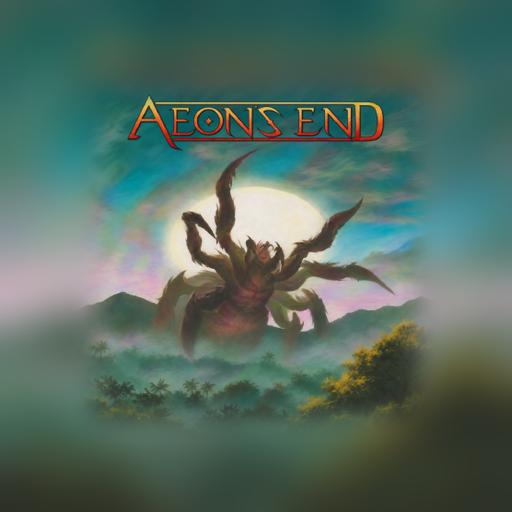
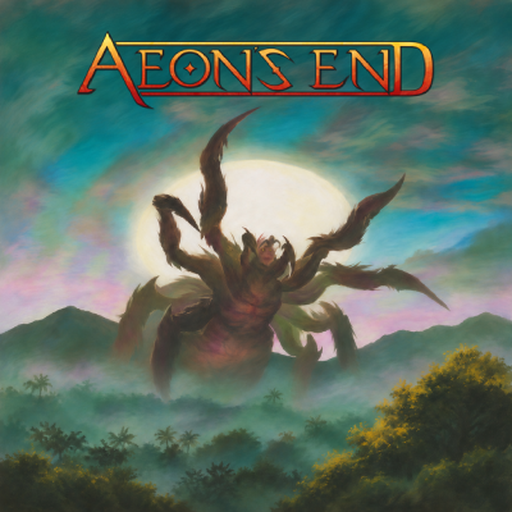
aassasadsad

diff --git a/tools/build-app-icons.py b/tools/build-app-icons.py
@@ -19,19 +19,11 @@ square = src.crop(((w - side) // 2, (h - side) // 2, (w - side) // 2 + side, (h 
 def plain(size, name):
     square.resize((size, size), Image.LANCZOS).save(OUT + name, optimize=True)
 
-def maskable(size, name, ratio=.72):
-    # Android ritaglia l'icona (cerchio di diametro 80%): l'immagine sta nel 72% centrale, così la scritta in alto
-    # non viene tagliata; intorno la stessa immagine sfocata, con il bordo sfumato (niente stacco netto)
-    bg = square.resize((size, size), Image.LANCZOS).filter(ImageFilter.GaussianBlur(size // 25))
-    inner = int(size * ratio)
-    fg = square.resize((inner, inner), Image.LANCZOS)
-    feather = max(2, inner // 16)
-    mask = Image.new('L', (inner, inner), 0)
-    mask.paste(255, (feather, feather, inner - feather, inner - feather))
-    mask = mask.filter(ImageFilter.GaussianBlur(feather / 2))
-    off = (size - inner) // 2
-    bg.paste(fg, (off, off), mask)
-    bg.save(OUT + name, optimize=True)
+def maskable(size, name):
+    # Android ritaglia l'icona nella forma del launcher: dalla v200 l'immagine intera, senza cornice (scelta
+    # dell'utente; il ritaglio taglia un po' i bordi). Prima: immagine nel 72% centrale con la stessa immagine sfocata
+    # intorno.
+    square.resize((size, size), Image.LANCZOS).save(OUT + name, optimize=True)
 
 plain(192, 'icon-192.png')
 plain(512, 'icon-512.png')
